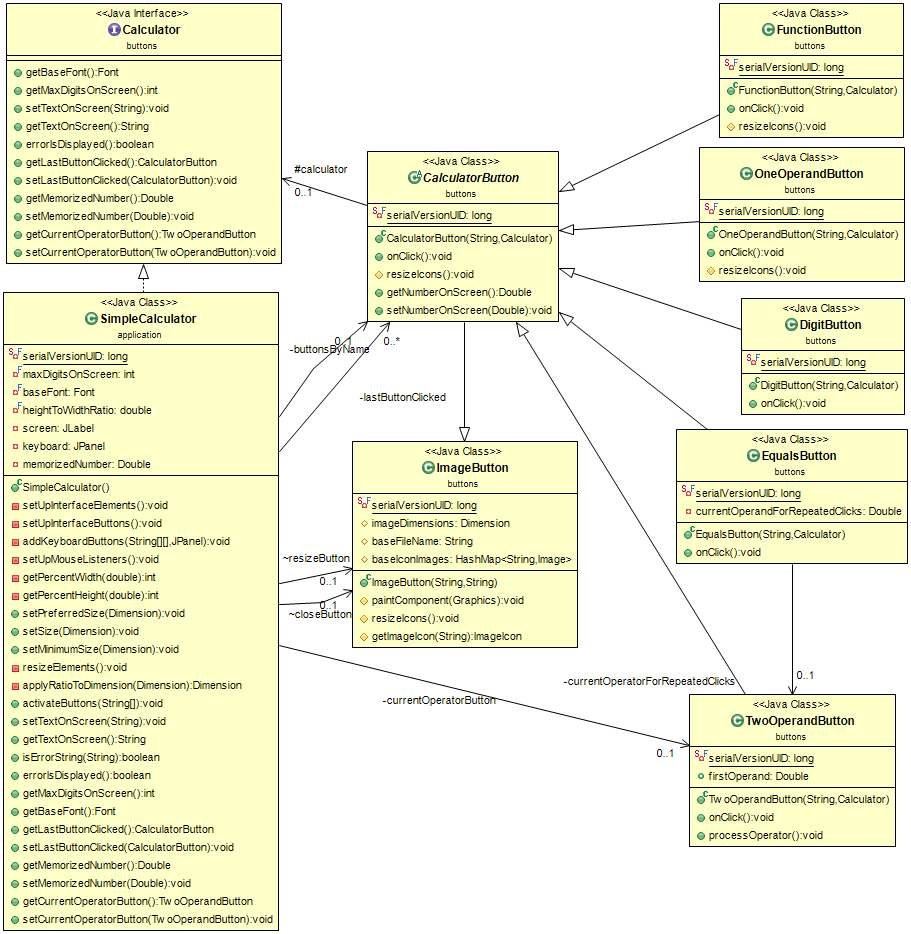
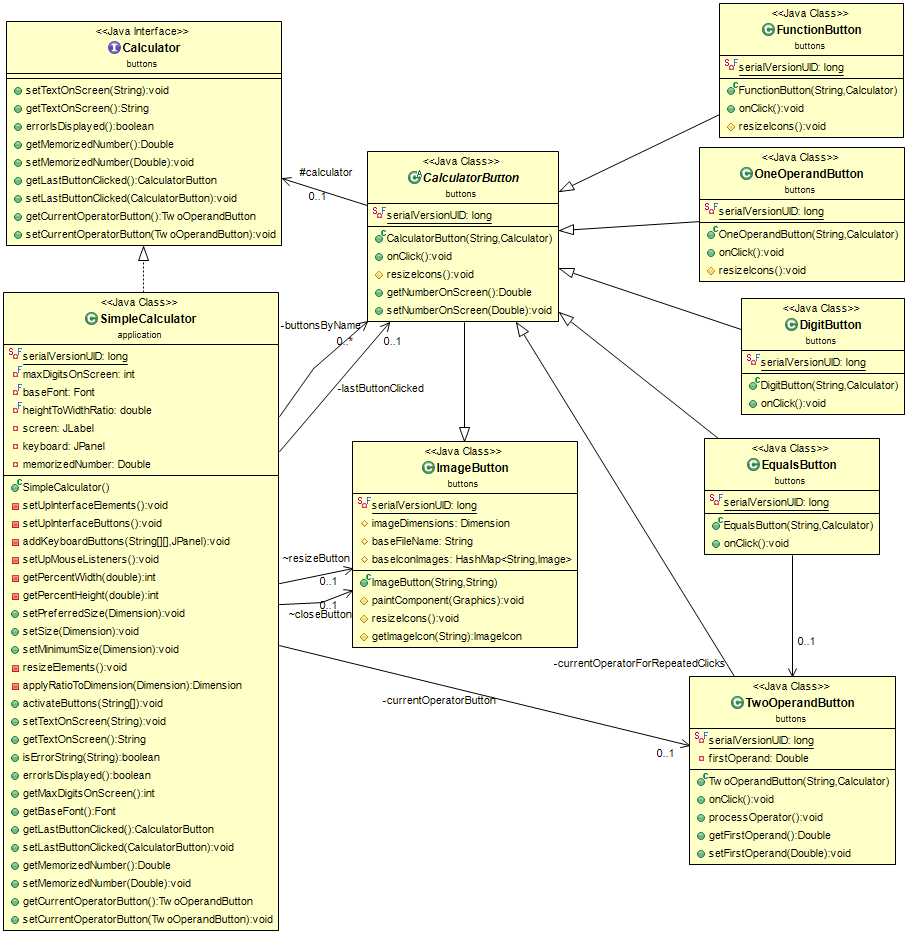
Implement Agnès' suggestions

diff --git a/src/buttons/Calculator.java b/src/buttons/Calculator.java
@@ -9,7 +9,7 @@ public interface Calculator {
 	 * @param s string to set calculator screen to
 	 */
 	public void setTextOnScreen(String s);
-
+	
 	/**
 	 * Get text displayed on screen
 	 * @return string displayed
@@ -22,37 +22,37 @@ public interface Calculator {
 	 */
 	public boolean errorIsDisplayed();
 	
-    /**
-     * Get number in calculator memory
-     * @return number in memory
-     */
-    public Double getMemorizedNumber();
-    
-    /**
-     * Set number in calculator memory to Double parameter
-     * @param n number to set memory to
-     */
-    public void setMemorizedNumber(Double n);
+	/**
+	 * Get number in calculator memory
+	 * @return number in memory
+	 */
+	public Double getMemorizedNumber();
+	
+	/**
+	 * Set number in calculator memory to Double parameter
+	 * @param n number to set memory to
+	 */
+	public void setMemorizedNumber(Double n);
 	
 	/**
 	 * Get last button clicked on calculator interface.
 	 * @return last button clicked
 	 */
-    public CalculatorButton getLastButtonClicked();
-    
-    /**
-     * Set last button clicked on calculator interface.
-     */
-    public void setLastButtonClicked(CalculatorButton b);
-
-    /**
-     * Get current operation button 
-     * @return reference to operation button
-     */
-    public TwoOperandButton getCurrentOperatorButton();
-
-    /**
-     * Set current operation button to passed reference
-     */
-    public void setCurrentOperatorButton(TwoOperandButton b);
+	public CalculatorButton getLastButtonClicked();
+	
+	/**
+	 * Set last button clicked on calculator interface.
+	 */
+	public void setLastButtonClicked(CalculatorButton b);
+	
+	/**
+	 * Get current operation button 
+	 * @return reference to operation button
+	 */
+	public TwoOperandButton getCurrentOperatorButton();
+	
+	/**
+	 * Set current operation button to passed reference
+	 */
+	public void setCurrentOperatorButton(TwoOperandButton b);
 }

diff --git a/src/buttons/EqualsButton.java b/src/buttons/EqualsButton.java
@@ -13,8 +13,13 @@ public class EqualsButton extends CalculatorButton {
 	
 	public void onClick() {
 		if (!this.calculator.errorIsDisplayed()) {
-			// Special case: if repeated clicks on "equal"
-			if (this.equals(this.calculator.getLastButtonClicked()) && this.currentOperatorForRepeatedClicks != null) {
+			// If we already entered an operator, and we aren't repeating a click on "Equals" button
+			if (this.calculator.getCurrentOperatorButton() != null && !this.equals(this.calculator.getLastButtonClicked())) {
+				// Current operation is saved in case we click again on equal
+				this.currentOperatorForRepeatedClicks = this.calculator.getCurrentOperatorButton();
+				this.calculator.getCurrentOperatorButton().processOperator();
+			} // Special case: if repeated clicks on "equal"
+			else if (this.currentOperatorForRepeatedClicks != null) {
 				// this is actually the second operand of previous operation (saved as first operand on operation completion)
 				Double temp = this.currentOperatorForRepeatedClicks.getFirstOperand(); 
 				
@@ -23,11 +28,7 @@ public class EqualsButton extends CalculatorButton {
 				this.setNumberOnScreen(temp); // second operand of previous operation becomes second operand of new operation  
 				
 				this.currentOperatorForRepeatedClicks.processOperator();
-			} else if (this.calculator.getCurrentOperatorButton() != null) { // Else, if we already entered an operator
-				// Current operation is saved in case we click again on equal
-				this.currentOperatorForRepeatedClicks = this.calculator.getCurrentOperatorButton();
-				this.calculator.getCurrentOperatorButton().processOperator();
-			}
+			} 
 		}
 		super.onClick();
 	}

diff --git a/src/application/SimpleCalculator.java b/src/application/SimpleCalculator.java
@@ -87,7 +87,7 @@ public class SimpleCalculator extends JFrame implements Calculator{
 	}
 	
 	/**
-	 *  Create CalculatorButtons and screen
+	 *  Create screen and keyboard
 	 */
 	private void setUpInterfaceElements() {
 		// Set up calculator display
@@ -130,7 +130,7 @@ public class SimpleCalculator extends JFrame implements Calculator{
 	}
 	
 	/**
-	 *  Create interface buttons (close, resize) to replace those in default window decoration
+	 *  Create interface buttons (close, resize) to replace those in default window decoration, as well as buttons in keyboard
 	 */
 	private void setUpInterfaceButtons() {
 		closeButton = new ImageButton("", "button_close");
@@ -184,7 +184,7 @@ public class SimpleCalculator extends JFrame implements Calculator{
         				c.gridheight = 2;
         			}
         			
-        			// ButtonFactory will create appropriate button type (digit, one operand...) according to label
+        			// ButtonFactory will create appropriate button type (digit, one operand...)
         			button = ButtonFactory.create(textMatrix[gridRow][gridCol], this);
         			button.setFont( this.getBaseFont() );
         			keyboard.add( button, c);
@@ -201,7 +201,7 @@ public class SimpleCalculator extends JFrame implements Calculator{
 	 */
 	private void setUpMouseListeners() {
 		SimpleCalculator me = this;
-    	Dimension firstClickLocation = new Dimension();
+    	Dimension firstClickLocation = new Dimension(); // Needed to calculate new window location on move
 
 		this.addMouseListener(new MouseAdapter() {
 		    public void mousePressed(MouseEvent e) {

diff --git a/src/buttons/ButtonFactory.java b/src/buttons/ButtonFactory.java
@@ -12,18 +12,13 @@ public class ButtonFactory {
 	 * @return CalculatorButton subclass
 	 */
 	public static CalculatorButton create(String text, Calculator calc) {
-		switch(text) {
-			case "=":
-			return new EqualsButton(text, calc);
-			case "%": case "√": case "±":
-				return new OneOperandButton(text, calc);
-			case "×": case "÷": case "+": case "-":
-				return new TwoOperandButton(text, calc);
-			case "MRC": case "M+": case "M-": case "CE": case "ON/C":
-				return new FunctionButton(text, calc);
-			default:
-				return new DigitButton(text,calc);
-		}
+		return switch(text) {
+			case "=" -> new EqualsButton(text, calc);
+			case "%", "√", "±"  -> new OneOperandButton(text, calc);
+			case "×", "÷", "+", "-" -> new TwoOperandButton(text, calc);
+			case "MRC", "M+", "M-", "CE", "ON/C" -> new FunctionButton(text, calc);
+			default -> new DigitButton(text,calc);
+		};
 	}
 	
 }

diff --git a/src/buttons/TwoOperandButton.java b/src/buttons/TwoOperandButton.java
@@ -14,11 +14,10 @@ public class TwoOperandButton extends CalculatorButton {
 	
 	public void onClick() {
 	if (!this.calculator.errorIsDisplayed()) {
-			if (this.calculator.getCurrentOperatorButton() == null) {
-				this.calculator.setCurrentOperatorButton(this);
-			} else 	// If last button clicked was another TwoOperandButton, don't process
-				 	//  so that new operator clicked becomes current operator 
-			if (!this.getClass().isInstance(this.calculator.getLastButtonClicked())){
+			// If last button clicked was another TwoOperandButton, don't process
+			//  so that new operator clicked becomes current operator 
+			if (	this.calculator.getCurrentOperatorButton() != null
+				&& !this.getClass().isInstance(this.calculator.getLastButtonClicked())){
 				this.calculator.getCurrentOperatorButton().processOperator();
 			}
 

diff --git a/src/buttons/DigitButton.java b/src/buttons/DigitButton.java
@@ -10,6 +10,7 @@ public class DigitButton extends CalculatorButton {
 		super(s, c);
 	}
 
+	@Override
 	public void onClick() {
 		String displayString ="0";
 		

diff --git a/README.md b/README.md
@@ -1,9 +1,9 @@
 # SimpleCalculator
 ### Author: Erik Shea
 
-A simple implementation of a calculator, with basic memory functions.
-
 ![Screenshot of SimpleCalculator](https://github.com/erikshea/simple_calculator/blob/master/assets/readme/SimpleCalculator_screenshot.png?raw=true)
+
+A simple implementation of a calculator, with basic memory functions.
 
 **Class diagram:**
 ![Class diagram of SimpleCalculator](https://github.com/erikshea/simple_calculator/blob/master/assets/readme/SimpleCalculator_class_diagram.png?raw=true)
